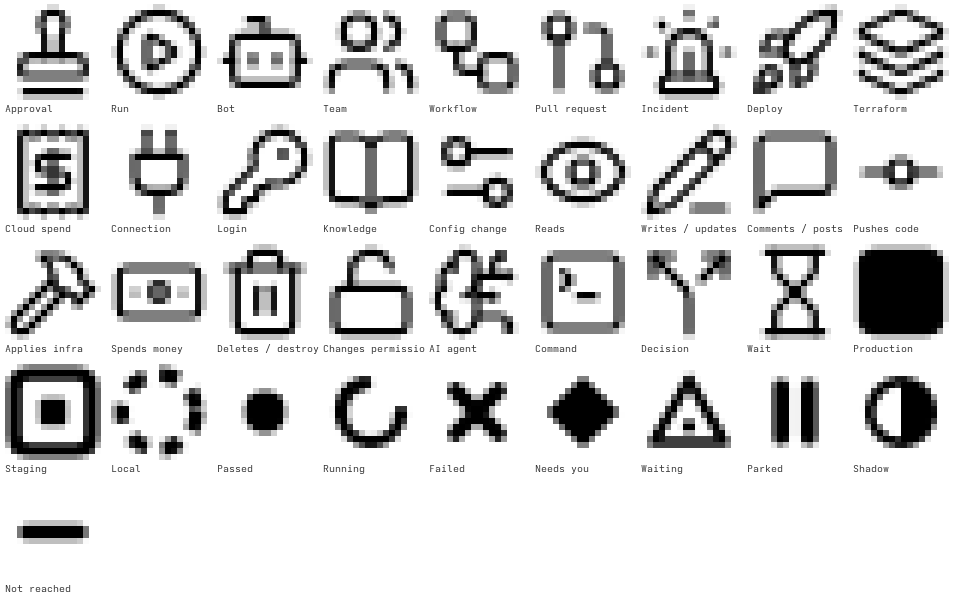
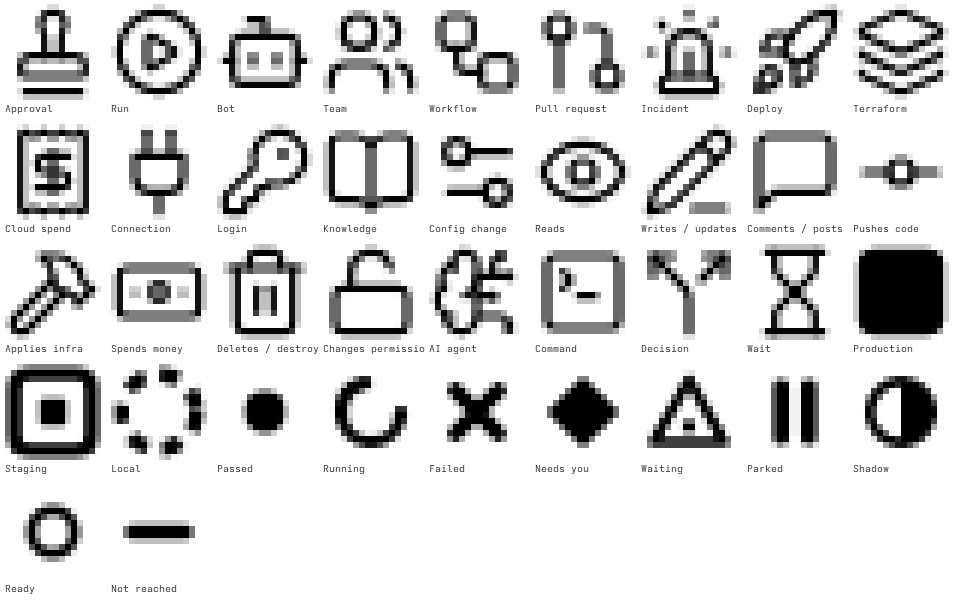
A Ready mark: a hollow slate dot
For tickets and tasks set to start but not started. The passed dot, not
yet filled, in the parked slate. A full-size ring was measured too close
to running, shadow and staged at 16px (overlap 0.65 to 0.70); the hollow
dot's closest pair is 0.58, with a different colour.

Changed region(s): [[0.0, 0.84, 0.0912, 0.99], [0.1216, 0.84, 0.2128, 0.93], [0.1216, 0.96, 0.1824, 0.99]]

diff --git a/design/brand/icons/icons.js b/design/brand/icons/icons.js
@@ -1,4 +1,4 @@
 // GENERATED by tools/icons.mjs from icons/lucide/*.svg (ISC), icons/status/*.svg and icons/services/*.svg (Simple Icons, CC0).
 export const LUCIDE = {"activity":"<path d=\"M22 12h-2.48a2 2 0 0 0-1.93 1.46l-2.35 8.36a.25.25 0 0 1-.48 0L9.24 2.18a.25.25 0 0 0-.48 0l-2.35 8.36A2 2 0 0 1 4.49 12H2\" />","badge-check":"<path d=\"M3.85 8.62a4 4 0 0 1 4.78-4.77 4 4 0 0 1 6.74 0 4 4 0 0 1 4.78 4.78 4 4 0 0 1 0 6.74 4 4 0 0 1-4.77 4.78 4 4 0 0 1-6.75 0 4 4 0 0 1-4.78-4.77 4 4 0 0 1 0-6.76Z\" /> <path d=\"m16 9-5.5 5.5L8 12\" />","banknote":"<rect width=\"20\" height=\"12\" x=\"2\" y=\"6\" rx=\"2\" /> <circle cx=\"12\" cy=\"12\" r=\"2\" /> <path d=\"M6 12h.01M18 12h.01\" />","bell":"<path d=\"M10.268 21a2 2 0 0 0 3.464 0\" /> <path d=\"M3.262 15.326A1 1 0 0 0 4 17h16a1 1 0 0 0 .74-1.673C19.41 13.956 18 12.499 18 8A6 6 0 0 0 6 8c0 4.499-1.411 5.956-2.738 7.326\" />","book-open":"<path d=\"M12 5v16\" /> <path d=\"M20.001 19A2 2 0 0022 17V5a2 2 0 00-1.999-2L16 3.002A5 5 0 0012 5a5 5 0 00-4-2H4a2 2 0 00-2 2v12a2 2 0 001.999 2H8a5 5 0 014 2 5 5 0 014-2z\" />","bot":"<path d=\"M12 8V4H8\" /> <rect width=\"16\" height=\"12\" x=\"4\" y=\"8\" rx=\"2\" /> <path d=\"M2 14h2\" /> <path d=\"M20 14h2\" /> <path d=\"M15 13v2\" /> <path d=\"M9 13v2\" />","brackets":"<path d=\"M16 3h3a1 1 0 0 1 1 1v16a1 1 0 0 1-1 1h-3\" /> <path d=\"M8 21H5a1 1 0 0 1-1-1V4a1 1 0 0 1 1-1h3\" />","brain-circuit":"<path d=\"M12 5a3 3 0 1 0-5.997.125 4 4 0 0 0-2.526 5.77 4 4 0 0 0 .556 6.588A4 4 0 1 0 12 18Z\" /> <path d=\"M9 13a4.5 4.5 0 0 0 3-4\" /> <path d=\"M6.003 5.125A3 3 0 0 0 6.401 6.5\" /> <path d=\"M3.477 10.896a4 4 0 0 1 .585-.396\" /> <path d=\"M6 18a4 4 0 0 1-1.967-.516\" /> <path d=\"M12 13h4\" /> <path d=\"M12 18h6a2 2 0 0 1 2 2v1\" /> <path d=\"M12 8h8\" /> <path d=\"M16 8V5a2 2 0 0 1 2-2\" /> <circle cx=\"16\" cy=\"13\" r=\".5\" /> <circle cx=\"18\" cy=\"3\" r=\".5\" /> <circle cx=\"20\" cy=\"21\" r=\".5\" /> <circle cx=\"20\" cy=\"8\" r=\".5\" />","calendar-clock":"<path d=\"M21 7.5V6a2 2 0 0 0-2-2H5a2 2 0 0 0-2 2v14a2 2 0 0 0 2 2h3.5\" /> <path d=\"M16 2v4\" /> <path d=\"M8 2v4\" /> <path d=\"M3 10h5\" /> <path d=\"M17.5 17.5 16 16.3V14\" /> <circle cx=\"16\" cy=\"16\" r=\"6\" />","check":"<path d=\"M20 6 9 17l-5-5\" />","chevron-right":"<path d=\"m9 18 6-6-6-6\" />","circle-arrow-up":"<circle cx=\"12\" cy=\"12\" r=\"10\" /> <path d=\"m16 12-4-4-4 4\" /> <path d=\"M12 16V8\" />","circle-play":"<path d=\"M9 9.003a1 1 0 0 1 1.517-.859l4.997 2.997a1 1 0 0 1 0 1.718l-4.997 2.997A1 1 0 0 1 9 14.996z\" /> <circle cx=\"12\" cy=\"12\" r=\"10\" />","clock":"<circle cx=\"12\" cy=\"12\" r=\"10\" /> <polyline points=\"12 6 12 12 16 14\" />","code":"<path d=\"m16 18 6-6-6-6\" /> <path d=\"m8 6-6 6 6 6\" />","command":"<path d=\"M15 6v12a3 3 0 1 0 3-3H6a3 3 0 1 0 3 3V6a3 3 0 1 0-3 3h12a3 3 0 1 0-3-3\" />","copy":"<rect width=\"14\" height=\"14\" x=\"8\" y=\"8\" rx=\"2\" ry=\"2\" /> <path d=\"M4 16c-1.1 0-2-.9-2-2V4c0-1.1.9-2 2-2h10c1.1 0 2 .9 2 2\" />","cpu":"<path d=\"M12 20v2\" /> <path d=\"M12 2v2\" /> <path d=\"M17 20v2\" /> <path d=\"M17 2v2\" /> <path d=\"M2 12h2\" /> <path d=\"M2 17h2\" /> <path d=\"M2 7h2\" /> <path d=\"M20 12h2\" /> <path d=\"M20 17h2\" /> <path d=\"M20 7h2\" /> <path d=\"M7 20v2\" /> <path d=\"M7 2v2\" /> <rect x=\"4\" y=\"4\" width=\"16\" height=\"16\" rx=\"2\" /> <rect x=\"8\" y=\"8\" width=\"8\" height=\"8\" rx=\"1\" />","ellipsis":"<circle cx=\"12\" cy=\"12\" r=\"1\" /> <circle cx=\"19\" cy=\"12\" r=\"1\" /> <circle cx=\"5\" cy=\"12\" r=\"1\" />","external-link":"<path d=\"M15 3h6v6\" /> <path d=\"M10 14 21 3\" /> <path d=\"M18 13v6a2 2 0 0 1-2 2H5a2 2 0 0 1-2-2V8a2 2 0 0 1 2-2h6\" />","eye":"<path d=\"M2.062 12.348a1 1 0 0 1 0-.696 10.75 10.75 0 0 1 19.876 0 1 1 0 0 1 0 .696 10.75 10.75 0 0 1-19.876 0\" /> <circle cx=\"12\" cy=\"12\" r=\"3\" />","filter":"<polygon points=\"22 3 2 3 10 12.46 10 19 14 21 14 12.46 22 3\" />","fingerprint":"<path d=\"M12 10a2 2 0 0 0-2 2c0 1.02-.1 2.51-.26 4\" /> <path d=\"M14 13.12c0 2.38 0 6.38-1 8.88\" /> <path d=\"M17.29 21.02c.12-.6.43-2.3.5-3.02\" /> <path d=\"M2 12a10 10 0 0 1 18-6\" /> <path d=\"M2 16h.01\" /> <path d=\"M21.8 16c.2-2 .131-5.354 0-6\" /> <path d=\"M5 19.5C5.5 18 6 15 6 12a6 6 0 0 1 .34-2\" /> <path d=\"M8.65 22c.21-.66.45-1.32.57-2\" /> <path d=\"M9 6.8a6 6 0 0 1 9 5.2v2\" />","folder":"<path d=\"M20 20a2 2 0 0 0 2-2V8a2 2 0 0 0-2-2h-7.9a2 2 0 0 1-1.69-.9L9.6 3.9A2 2 0 0 0 7.93 3H4a2 2 0 0 0-2 2v13a2 2 0 0 0 2 2Z\" />","git-commit-horizontal":"<circle cx=\"12\" cy=\"12\" r=\"3\" /> <line x1=\"3\" x2=\"9\" y1=\"12\" y2=\"12\" /> <line x1=\"15\" x2=\"21\" y1=\"12\" y2=\"12\" />","git-fork":"<circle cx=\"12\" cy=\"18\" r=\"3\" /> <circle cx=\"6\" cy=\"6\" r=\"3\" /> <circle cx=\"18\" cy=\"6\" r=\"3\" /> <path d=\"M18 9v2c0 .6-.4 1-1 1H7c-.6 0-1-.4-1-1V9\" /> <path d=\"M12 12v3\" />","git-pull-request":"<circle cx=\"18\" cy=\"18\" r=\"3\" /> <circle cx=\"6\" cy=\"6\" r=\"3\" /> <path d=\"M13 6h3a2 2 0 0 1 2 2v7\" /> <line x1=\"6\" x2=\"6\" y1=\"9\" y2=\"21\" />","globe":"<circle cx=\"12\" cy=\"12\" r=\"10\" /> <path d=\"M12 2a14.5 14.5 0 0 0 0 20 14.5 14.5 0 0 0 0-20\" /> <path d=\"M2 12h20\" />","hammer":"<path d=\"m15 12-9.373 9.373a1 1 0 0 1-3.001-3L12 9\" /> <path d=\"m18 15 4-4\" /> <path d=\"m21.5 11.5-1.914-1.914A2 2 0 0 1 19 8.172v-.344a2 2 0 0 0-.586-1.414l-1.657-1.657A6 6 0 0 0 12.516 3H9l1.243 1.243A6 6 0 0 1 12 8.485V10l2 2h1.172a2 2 0 0 1 1.414.586L18.5 14.5\" />","history":"<path d=\"M3 12a9 9 0 1 0 9-9 9.75 9.75 0 0 0-6.74 2.74L3 8\" /> <path d=\"M3 3v5h5\" /> <path d=\"M12 7v5l4 2\" />","hourglass":"<path d=\"M5 22h14\" /> <path d=\"M5 2h14\" /> <path d=\"M17 22v-4.172a2 2 0 0 0-.586-1.414L12 12l-4.414 4.414A2 2 0 0 0 7 17.828V22\" /> <path d=\"M7 2v4.172a2 2 0 0 0 .586 1.414L12 12l4.414-4.414A2 2 0 0 0 17 6.172V2\" />","info":"<circle cx=\"12\" cy=\"12\" r=\"10\" /> <path d=\"M12 16v-4\" /> <path d=\"M12 8h.01\" />","key-round":"<path d=\"M2.586 17.414A2 2 0 0 0 2 18.828V21a1 1 0 0 0 1 1h3a1 1 0 0 0 1-1v-1a1 1 0 0 1 1-1h1a1 1 0 0 0 1-1v-1a1 1 0 0 1 1-1h.172a2 2 0 0 0 1.414-.586l.814-.814a6.5 6.5 0 1 0-4-4z\" /> <circle cx=\"16.5\" cy=\"7.5\" r=\".5\" fill=\"currentColor\" />","layers":"<path d=\"M12.83 2.18a2 2 0 0 0-1.66 0L2.6 6.08a1 1 0 0 0 0 1.83l8.58 3.91a2 2 0 0 0 1.66 0l8.58-3.9a1 1 0 0 0 0-1.83z\" /> <path d=\"M2 12a1 1 0 0 0 .58.91l8.6 3.91a2 2 0 0 0 1.65 0l8.58-3.9A1 1 0 0 0 22 12\" /> <path d=\"M2 17a1 1 0 0 0 .58.91l8.6 3.91a2 2 0 0 0 1.65 0l8.58-3.9A1 1 0 0 0 22 17\" />","layout-grid":"<rect width=\"7\" height=\"7\" x=\"3\" y=\"3\" rx=\"1\" /> <rect width=\"7\" height=\"7\" x=\"14\" y=\"3\" rx=\"1\" /> <rect width=\"7\" height=\"7\" x=\"14\" y=\"14\" rx=\"1\" /> <rect width=\"7\" height=\"7\" x=\"3\" y=\"14\" rx=\"1\" />","lock-open":"<rect width=\"18\" height=\"11\" x=\"3\" y=\"11\" rx=\"2\" ry=\"2\" /> <path d=\"M7 11V7a5 5 0 0 1 9.9-1\" />","lock":"<rect width=\"18\" height=\"11\" x=\"3\" y=\"11\" rx=\"2\" ry=\"2\" /> <path d=\"M7 11V7a5 5 0 0 1 10 0v4\" />","log-out":"<path d=\"m16 17 5-5-5-5\" /> <path d=\"M21 12H9\" /> <path d=\"M9 21H5a2 2 0 0 1-2-2V5a2 2 0 0 1 2-2h4\" />","message-square":"<path d=\"M21 15a2 2 0 0 1-2 2H7l-4 4V5a2 2 0 0 1 2-2h14a2 2 0 0 1 2 2z\" />","package":"<path d=\"M11 21.73a2 2 0 0 0 2 0l7-4A2 2 0 0 0 21 16V8a2 2 0 0 0-1-1.73l-7-4a2 2 0 0 0-2 0l-7 4A2 2 0 0 0 3 8v8a2 2 0 0 0 1 1.73z\" /> <path d=\"M12 22V12\" /> <path d=\"m3.3 7 7.703 4.734a2 2 0 0 0 1.994 0L20.7 7\" /> <path d=\"m7.5 4.27 9 5.15\" />","pause":"<rect x=\"14\" y=\"4\" width=\"4\" height=\"16\" rx=\"1\" /> <rect x=\"6\" y=\"4\" width=\"4\" height=\"16\" rx=\"1\" />","pencil-line":"<path d=\"M13 21h8\" /> <path d=\"m15 5 4 4\" /> <path d=\"M21.174 6.812a1 1 0 0 0-3.986-3.987L3.842 16.174a2 2 0 0 0-.5.83l-1.321 4.352a.5.5 0 0 0 .623.622l4.353-1.32a2 2 0 0 0 .83-.497z\" />","pin":"<path d=\"M12 17v5\" /> <path d=\"M9 10.76a2 2 0 0 1-1.11 1.79l-1.78.9A2 2 0 0 0 5 15.24V16a1 1 0 0 0 1 1h12a1 1 0 0 0 1-1v-.76a2 2 0 0 0-1.11-1.79l-1.78-.9A2 2 0 0 1 15 10.76V7a1 1 0 0 1 1-1 2 2 0 0 0 0-4H8a2 2 0 0 0 0 4 1 1 0 0 1 1 1z\" />","play":"<polygon points=\"6 3 20 12 6 21 6 3\" />","plug":"<path d=\"M12 22v-5\" /> <path d=\"M9 8V2\" /> <path d=\"M15 8V2\" /> <path d=\"M18 8v5a4 4 0 0 1-4 4h-4a4 4 0 0 1-4-4V8Z\" />","plus":"<path d=\"M5 12h14\" /> <path d=\"M12 5v14\" />","receipt":"<path d=\"M12 17V7\" /> <path d=\"M16 8h-6a2 2 0 0 0 0 4h4a2 2 0 0 1 0 4H8\" /> <path d=\"M4 3a1 1 0 0 1 1-1 1.3 1.3 0 0 1 .7.2l.933.6a1.3 1.3 0 0 0 1.4 0l.934-.6a1.3 1.3 0 0 1 1.4 0l.933.6a1.3 1.3 0 0 0 1.4 0l.933-.6a1.3 1.3 0 0 1 1.4 0l.934.6a1.3 1.3 0 0 0 1.4 0l.933-.6A1.3 1.3 0 0 1 19 2a1 1 0 0 1 1 1v18a1 1 0 0 1-1 1 1.3 1.3 0 0 1-.7-.2l-.933-.6a1.3 1.3 0 0 0-1.4 0l-.934.6a1.3 1.3 0 0 1-1.4 0l-.933-.6a1.3 1.3 0 0 0-1.4 0l-.933.6a1.3 1.3 0 0 1-1.4 0l-.934-.6a1.3 1.3 0 0 0-1.4 0l-.933.6a1.3 1.3 0 0 1-.7.2 1 1 0 0 1-1-1z\" />","refresh-cw":"<path d=\"M3 12a9 9 0 0 1 9-9 9.75 9.75 0 0 1 6.74 2.74L21 8\" /> <path d=\"M21 3v5h-5\" /> <path d=\"M21 12a9 9 0 0 1-9 9 9.75 9.75 0 0 1-6.74-2.74L3 16\" /> <path d=\"M8 16H3v5\" />","rocket":"<path d=\"M12 15v5s3.03-.55 4-2c1.08-1.62 0-5 0-5\" /> <path d=\"M4.5 16.5c-1.5 1.26-2 5-2 5s3.74-.5 5-2c.71-.84.7-2.13-.09-2.91a2.18 2.18 0 0 0-2.91-.09\" /> <path d=\"M9 12a22 22 0 0 1 2-3.95A12.88 12.88 0 0 1 22 2c0 2.72-.78 7.5-6 11a22.4 22.4 0 0 1-4 2z\" /> <path d=\"M9 12H4s.55-3.03 2-4c1.62-1.08 5 .05 5 .05\" />","scroll-text":"<path d=\"M15 12h-5\" /> <path d=\"M15 8h-5\" /> <path d=\"M19 17V5a2 2 0 0 0-2-2H4\" /> <path d=\"M8 21h12a2 2 0 0 0 2-2v-1a1 1 0 0 0-1-1H11a1 1 0 0 0-1 1v1a2 2 0 1 1-4 0V5a2 2 0 1 0-4 0v2a1 1 0 0 0 1 1h3\" />","search":"<circle cx=\"11\" cy=\"11\" r=\"8\" /> <path d=\"m21 21-4.3-4.3\" />","server":"<rect width=\"20\" height=\"8\" x=\"2\" y=\"2\" rx=\"2\" ry=\"2\" /> <rect width=\"20\" height=\"8\" x=\"2\" y=\"14\" rx=\"2\" ry=\"2\" /> <line x1=\"6\" x2=\"6.01\" y1=\"6\" y2=\"6\" /> <line x1=\"6\" x2=\"6.01\" y1=\"18\" y2=\"18\" />","settings-2":"<path d=\"M20 7h-9\" /> <path d=\"M14 17H5\" /> <circle cx=\"17\" cy=\"17\" r=\"3\" /> <circle cx=\"7\" cy=\"7\" r=\"3\" />","shield-check":"<path d=\"M20 13c0 5-3.5 7.5-7.66 8.95a1 1 0 0 1-.67-.01C7.5 20.5 4 18 4 13V6a1 1 0 0 1 1-1c2 0 4.5-1.2 6.24-2.72a1.17 1.17 0 0 1 1.52 0C14.51 3.81 17 5 19 5a1 1 0 0 1 1 1z\" /> <path d=\"m9 12 2 2 4-4\" />","siren":"<path d=\"M7 18v-6a5 5 0 1 1 10 0v6\" /> <path d=\"M5 21a1 1 0 0 0 1 1h12a1 1 0 0 0 1-1v-1a2 2 0 0 0-2-2H7a2 2 0 0 0-2 2z\" /> <path d=\"M21 12h1\" /> <path d=\"M18.5 4.5 18 5\" /> <path d=\"M2 12h1\" /> <path d=\"M12 2v1\" /> <path d=\"m4.929 4.929.707.707\" /> <path d=\"M12 12v6\" />","split":"<path d=\"M16 3h5v5\" /> <path d=\"M8 3H3v5\" /> <path d=\"M12 22v-8.3a4 4 0 0 0-1.172-2.872L3 3\" /> <path d=\"m15 9 6-6\" />","square-terminal":"<path d=\"m7 11 2-2-2-2\" /> <path d=\"M11 13h4\" /> <rect width=\"18\" height=\"18\" x=\"3\" y=\"3\" rx=\"2\" ry=\"2\" />","square":"<rect width=\"18\" height=\"18\" x=\"3\" y=\"3\" rx=\"2\" />","stamp":"<path d=\"M14 13V8.5C14 7 15 7 15 5a3 3 0 0 0-6 0c0 2 1 2 1 3.5V13\" /> <path d=\"M20 15.5a2.5 2.5 0 0 0-2.5-2.5h-11A2.5 2.5 0 0 0 4 15.5V17a1 1 0 0 0 1 1h14a1 1 0 0 0 1-1z\" /> <path d=\"M5 22h14\" />","tag":"<path d=\"M12.586 2.586A2 2 0 0 0 11.172 2H4a2 2 0 0 0-2 2v7.172a2 2 0 0 0 .586 1.414l8.704 8.704a2.426 2.426 0 0 0 3.42 0l6.58-6.58a2.426 2.426 0 0 0 0-3.42z\" /> <circle cx=\"7.5\" cy=\"7.5\" r=\".5\" fill=\"currentColor\" />","telescope":"<path d=\"m10.065 12.493-6.18 1.318a.934.934 0 0 1-1.108-.702l-.537-2.15a1.07 1.07 0 0 1 .691-1.265l13.504-4.44\" /> <path d=\"m13.56 11.747 4.332-.924\" /> <path d=\"m16 21-3.105-6.21\" /> <path d=\"M16.485 5.94a2 2 0 0 1 1.455-2.425l1.09-.272a1 1 0 0 1 1.212.727l1.515 6.06a1 1 0 0 1-.727 1.213l-1.09.272a2 2 0 0 1-2.425-1.455z\" /> <path d=\"m6.158 8.633 1.114 4.456\" /> <path d=\"m8 21 3.105-6.21\" /> <circle cx=\"12\" cy=\"13\" r=\"2\" />","terminal":"<polyline points=\"4 17 10 11 4 5\" /> <line x1=\"12\" x2=\"20\" y1=\"19\" y2=\"19\" />","trash-2":"<path d=\"M10 11v6\" /> <path d=\"M14 11v6\" /> <path d=\"M19 6v14a2 2 0 0 1-2 2H7a2 2 0 0 1-2-2V6\" /> <path d=\"M3 6h18\" /> <path d=\"M8 6V4a2 2 0 0 1 2-2h4a2 2 0 0 1 2 2v2\" />","triangle-alert":"<path d=\"m21.73 18-8-14a2 2 0 0 0-3.48 0l-8 14A2 2 0 0 0 4 21h16a2 2 0 0 0 1.73-3\" /> <path d=\"M12 9v4\" /> <path d=\"M12 17h.01\" />","undo-2":"<path d=\"M9 14 4 9l5-5\" /> <path d=\"M4 9h10.5a5.5 5.5 0 0 1 5.5 5.5a5.5 5.5 0 0 1-5.5 5.5H11\" />","users":"<path d=\"M16 21v-2a4 4 0 0 0-4-4H6a4 4 0 0 0-4 4v2\" /> <circle cx=\"9\" cy=\"7\" r=\"4\" /> <path d=\"M22 21v-2a4 4 0 0 0-3-3.87\" /> <path d=\"M16 3.13a4 4 0 0 1 0 7.75\" />","workflow":"<rect width=\"8\" height=\"8\" x=\"3\" y=\"3\" rx=\"2\" /> <path d=\"M7 11v4a2 2 0 0 0 2 2h4\" /> <rect width=\"8\" height=\"8\" x=\"13\" y=\"13\" rx=\"2\" />","x":"<path d=\"M18 6 6 18\" /> <path d=\"m6 6 12 12\" />","zap":"<path d=\"M4 14a1 1 0 0 1-.78-1.63l9.9-10.2a.5.5 0 0 1 .86.46l-1.92 6.02A1 1 0 0 0 13 10h7a1 1 0 0 1 .78 1.63l-9.9 10.2a.5.5 0 0 1-.86-.46l1.92-6.02A1 1 0 0 0 11 14z\" />"};
-export const STATUS = {"success":{"label":"Passed, done, healthy (green)","svg":"<circle cx=\"8\" cy=\"8\" r=\"3.4\" fill=\"currentColor\" stroke=\"none\"/>"},"warning":{"label":"Waiting, at risk, degraded","svg":"<path d=\"M8 2.6l5.9 10.4H2.1z\" fill=\"none\" stroke=\"currentColor\" stroke-width=\"1.7\" stroke-linejoin=\"round\"/><circle cx=\"8\" cy=\"10.4\" r=\"1.1\" fill=\"currentColor\"/>"},"danger":{"label":"Failed, refused","svg":"<path d=\"M4.4 4.4l7.2 7.2M11.6 4.4l-7.2 7.2\" fill=\"none\" stroke=\"currentColor\" stroke-width=\"2.6\" stroke-linecap=\"round\"/>"},"info":{"label":"News, updates","svg":"<circle cx=\"8\" cy=\"8\" r=\"5.6\" fill=\"none\" stroke=\"currentColor\" stroke-width=\"1.6\"/><path d=\"M8 7.3v3.9\" fill=\"none\" stroke=\"currentColor\" stroke-width=\"1.8\" stroke-linecap=\"round\"/><circle cx=\"8\" cy=\"5.1\" r=\"1\" fill=\"currentColor\" stroke=\"none\"/>"},"running":{"label":"Running (rotates)","svg":"<circle cx=\"8\" cy=\"8\" r=\"5\" fill=\"none\" stroke=\"currentColor\" stroke-width=\"2.2\" stroke-dasharray=\"22 9.5\" stroke-linecap=\"round\"/>"},"neutral":{"label":"Parked, idle (slate)","svg":"<path d=\"M5.7 3.8v8.4M10.3 3.8v8.4\" fill=\"none\" stroke=\"currentColor\" stroke-width=\"2.7\" stroke-linecap=\"round\"/>"},"skipped":{"label":"Skipped, cancelled","svg":"<path d=\"M3.6 8h8.8\" fill=\"none\" stroke=\"currentColor\" stroke-width=\"2.6\" stroke-linecap=\"round\"/>"},"shadow":{"label":"Shadow mode: observes, never acts","svg":"<circle cx=\"8\" cy=\"8\" r=\"5.2\" fill=\"none\" stroke=\"currentColor\" stroke-width=\"1.7\"/><path d=\"M8 2.8a5.2 5.2 0 0 1 0 10.4z\" fill=\"currentColor\" stroke=\"none\"/>"},"needs-you":{"label":"Needs you (accent)","svg":"<path d=\"M8 1.9l6.1 6.1L8 14.1 1.9 8z\" fill=\"currentColor\" stroke=\"none\"/>"},"staged":{"label":"Staged change, not applied","svg":"<circle cx=\"8\" cy=\"8\" r=\"5\" fill=\"none\" stroke=\"currentColor\" stroke-width=\"1.8\" stroke-dasharray=\"2.6 1.9\"/>"}};
+export const STATUS = {"success":{"label":"Passed, done, healthy (green)","svg":"<circle cx=\"8\" cy=\"8\" r=\"3.4\" fill=\"currentColor\" stroke=\"none\"/>"},"warning":{"label":"Waiting, at risk, degraded","svg":"<path d=\"M8 2.6l5.9 10.4H2.1z\" fill=\"none\" stroke=\"currentColor\" stroke-width=\"1.7\" stroke-linejoin=\"round\"/><circle cx=\"8\" cy=\"10.4\" r=\"1.1\" fill=\"currentColor\"/>"},"danger":{"label":"Failed, refused","svg":"<path d=\"M4.4 4.4l7.2 7.2M11.6 4.4l-7.2 7.2\" fill=\"none\" stroke=\"currentColor\" stroke-width=\"2.6\" stroke-linecap=\"round\"/>"},"info":{"label":"News, updates","svg":"<circle cx=\"8\" cy=\"8\" r=\"5.6\" fill=\"none\" stroke=\"currentColor\" stroke-width=\"1.6\"/><path d=\"M8 7.3v3.9\" fill=\"none\" stroke=\"currentColor\" stroke-width=\"1.8\" stroke-linecap=\"round\"/><circle cx=\"8\" cy=\"5.1\" r=\"1\" fill=\"currentColor\" stroke=\"none\"/>"},"running":{"label":"Running (rotates)","svg":"<circle cx=\"8\" cy=\"8\" r=\"5\" fill=\"none\" stroke=\"currentColor\" stroke-width=\"2.2\" stroke-dasharray=\"22 9.5\" stroke-linecap=\"round\"/>"},"neutral":{"label":"Parked, idle (slate)","svg":"<path d=\"M5.7 3.8v8.4M10.3 3.8v8.4\" fill=\"none\" stroke=\"currentColor\" stroke-width=\"2.7\" stroke-linecap=\"round\"/>"},"skipped":{"label":"Skipped, cancelled","svg":"<path d=\"M3.6 8h8.8\" fill=\"none\" stroke=\"currentColor\" stroke-width=\"2.6\" stroke-linecap=\"round\"/>"},"shadow":{"label":"Shadow mode: observes, never acts","svg":"<circle cx=\"8\" cy=\"8\" r=\"5.2\" fill=\"none\" stroke=\"currentColor\" stroke-width=\"1.7\"/><path d=\"M8 2.8a5.2 5.2 0 0 1 0 10.4z\" fill=\"currentColor\" stroke=\"none\"/>"},"needs-you":{"label":"Needs you (accent)","svg":"<path d=\"M8 1.9l6.1 6.1L8 14.1 1.9 8z\" fill=\"currentColor\" stroke=\"none\"/>"},"staged":{"label":"Staged change, not applied","svg":"<circle cx=\"8\" cy=\"8\" r=\"5\" fill=\"none\" stroke=\"currentColor\" stroke-width=\"1.8\" stroke-dasharray=\"2.6 1.9\"/>"},"ready":{"label":"Ready: set to start, not started (slate)","svg":"<circle cx=\"8\" cy=\"8\" r=\"3.6\" fill=\"none\" stroke=\"currentColor\" stroke-width=\"1.8\"/>"}};
 export const SERVICES = {"claude":{"title":"Claude","svg":"<path d=\"m4.7144 15.9555 4.7174-2.6471.079-.2307-.079-.1275h-.2307l-.7893-.0486-2.6956-.0729-2.3375-.0971-2.2646-.1214-.5707-.1215-.5343-.7042.0546-.3522.4797-.3218.686.0608 1.5179.1032 2.2767.1578 1.6514.0972 2.4468.255h.3886l.0546-.1579-.1336-.0971-.1032-.0972L6.973 9.8356l-2.55-1.6879-1.3356-.9714-.7225-.4918-.3643-.4614-.1578-1.0078.6557-.7225.8803.0607.2246.0607.8925.686 1.9064 1.4754 2.4893 1.8336.3643.3035.1457-.1032.0182-.0728-.164-.2733-1.3539-2.4467-1.445-2.4893-.6435-1.032-.17-.6194c-.0607-.255-.1032-.4674-.1032-.7285L6.287.1335 6.6997 0l.9957.1336.419.3642.6192 1.4147 1.0018 2.2282 1.5543 3.0296.4553.8985.2429.8318.091.255h.1579v-.1457l.1275-1.706.2368-2.0947.2307-2.6957.0789-.7589.3764-.9107.7468-.4918.5828.2793.4797.686-.0668.4433-.2853 1.8517-.5586 2.9021-.3643 1.9429h.2125l.2429-.2429.9835-1.3053 1.6514-2.0643.7286-.8196.85-.9046.5464-.4311h1.0321l.759 1.1293-.34 1.1657-1.0625 1.3478-.8804 1.1414-1.2628 1.7-.7893 1.36.0729.1093.1882-.0183 2.8535-.607 1.5421-.2794 1.8396-.3157.8318.3886.091.3946-.3278.8075-1.967.4857-2.3072.4614-3.4364.8136-.0425.0304.0486.0607 1.5482.1457.6618.0364h1.621l3.0175.2247.7892.522.4736.6376-.079.4857-1.2142.6193-1.6393-.3886-3.825-.9107-1.3113-.3279h-.1822v.1093l1.0929 1.0686 2.0035 1.8092 2.5075 2.3314.1275.5768-.3218.4554-.34-.0486-2.2039-1.6575-.85-.7468-1.9246-1.621h-.1275v.17l.4432.6496 2.3436 3.5214.1214 1.0807-.17.3521-.6071.2125-.6679-.1214-1.3721-1.9246L14.38 17.959l-1.1414-1.9428-.1397.079-.674 7.2552-.3156.3703-.7286.2793-.6071-.4614-.3218-.7468.3218-1.4753.3886-1.9246.3157-1.53.2853-1.9004.17-.6314-.0121-.0425-.1397.0182-1.4328 1.9672-2.1796 2.9446-1.7243 1.8456-.4128.164-.7164-.3704.0667-.6618.4008-.5889 2.386-3.0357 1.4389-1.882.929-1.0868-.0062-.1579h-.0546l-6.3385 4.1164-1.1293.1457-.4857-.4554.0608-.7467.2307-.2429 1.9064-1.3114Z\"/>"},"docker":{"title":"Docker","svg":"<path d=\"M13.983 11.078h2.119a.186.186 0 00.186-.185V9.006a.186.186 0 00-.186-.186h-2.119a.185.185 0 00-.185.185v1.888c0 .102.083.185.185.185m-2.954-5.43h2.118a.186.186 0 00.186-.186V3.574a.186.186 0 00-.186-.185h-2.118a.185.185 0 00-.185.185v1.888c0 .102.082.185.185.185m0 2.716h2.118a.187.187 0 00.186-.186V6.29a.186.186 0 00-.186-.185h-2.118a.185.185 0 00-.185.185v1.887c0 .102.082.185.185.186m-2.93 0h2.12a.186.186 0 00.184-.186V6.29a.185.185 0 00-.185-.185H8.1a.185.185 0 00-.185.185v1.887c0 .102.083.185.185.186m-2.964 0h2.119a.186.186 0 00.185-.186V6.29a.185.185 0 00-.185-.185H5.136a.186.186 0 00-.186.185v1.887c0 .102.084.185.186.186m5.893 2.715h2.118a.186.186 0 00.186-.185V9.006a.186.186 0 00-.186-.186h-2.118a.185.185 0 00-.185.185v1.888c0 .102.082.185.185.185m-2.93 0h2.12a.185.185 0 00.184-.185V9.006a.185.185 0 00-.184-.186h-2.12a.185.185 0 00-.184.185v1.888c0 .102.083.185.185.185m-2.964 0h2.119a.185.185 0 00.185-.185V9.006a.185.185 0 00-.184-.186h-2.12a.186.186 0 00-.186.186v1.887c0 .102.084.185.186.185m-2.92 0h2.12a.185.185 0 00.184-.185V9.006a.185.185 0 00-.184-.186h-2.12a.185.185 0 00-.184.185v1.888c0 .102.082.185.185.185M23.763 9.89c-.065-.051-.672-.51-1.954-.51-.338.001-.676.03-1.01.087-.248-1.7-1.653-2.53-1.716-2.566l-.344-.199-.226.327c-.284.438-.49.922-.612 1.43-.23.97-.09 1.882.403 2.661-.595.332-1.55.413-1.744.42H.751a.751.751 0 00-.75.748 11.376 11.376 0 00.692 4.062c.545 1.428 1.355 2.48 2.41 3.124 1.18.723 3.1 1.137 5.275 1.137.983.003 1.963-.086 2.93-.266a12.248 12.248 0 003.823-1.389c.98-.567 1.86-1.288 2.61-2.136 1.252-1.418 1.998-2.997 2.553-4.4h.221c1.372 0 2.215-.549 2.68-1.009.309-.293.55-.65.707-1.046l.098-.288Z\"/>"},"github":{"title":"GitHub","svg":"<path d=\"M12 .297c-6.63 0-12 5.373-12 12 0 5.303 3.438 9.8 8.205 11.385.6.113.82-.258.82-.577 0-.285-.01-1.04-.015-2.04-3.338.724-4.042-1.61-4.042-1.61C4.422 18.07 3.633 17.7 3.633 17.7c-1.087-.744.084-.729.084-.729 1.205.084 1.838 1.236 1.838 1.236 1.07 1.835 2.809 1.305 3.495.998.108-.776.417-1.305.76-1.605-2.665-.3-5.466-1.332-5.466-5.93 0-1.31.465-2.38 1.235-3.22-.135-.303-.54-1.523.105-3.176 0 0 1.005-.322 3.3 1.23.96-.267 1.98-.399 3-.405 1.02.006 2.04.138 3 .405 2.28-1.552 3.285-1.23 3.285-1.23.645 1.653.24 2.873.12 3.176.765.84 1.23 1.91 1.23 3.22 0 4.61-2.805 5.625-5.475 5.92.42.36.81 1.096.81 2.22 0 1.606-.015 2.896-.015 3.286 0 .315.21.69.825.57C20.565 22.092 24 17.592 24 12.297c0-6.627-5.373-12-12-12\"/>"},"go":{"title":"Go","svg":"<path d=\"M1.811 10.231c-.047 0-.058-.023-.035-.059l.246-.315c.023-.035.081-.058.128-.058h4.172c.046 0 .058.035.035.07l-.199.303c-.023.036-.082.07-.117.07zM.047 11.306c-.047 0-.059-.023-.035-.058l.245-.316c.023-.035.082-.058.129-.058h5.328c.047 0 .07.035.058.07l-.093.28c-.012.047-.058.07-.105.07zm2.828 1.075c-.047 0-.059-.035-.035-.07l.163-.292c.023-.035.07-.07.117-.07h2.337c.047 0 .07.035.07.082l-.023.28c0 .047-.047.082-.082.082zm12.129-2.36c-.736.187-1.239.327-1.963.514-.176.046-.187.058-.34-.117-.174-.199-.303-.327-.548-.444-.737-.362-1.45-.257-2.115.175-.795.514-1.204 1.274-1.192 2.22.011.935.654 1.706 1.577 1.835.795.105 1.46-.175 1.987-.77.105-.13.198-.27.315-.434H10.47c-.245 0-.304-.152-.222-.35.152-.362.432-.97.596-1.274a.315.315 0 01.292-.187h4.253c-.023.316-.023.631-.07.947a4.983 4.983 0 01-.958 2.29c-.841 1.11-1.94 1.8-3.33 1.986-1.145.152-2.209-.07-3.143-.77-.865-.655-1.356-1.52-1.484-2.595-.152-1.274.222-2.419.993-3.424.83-1.086 1.928-1.776 3.272-2.02 1.098-.2 2.15-.07 3.096.571.62.41 1.063.97 1.356 1.648.07.105.023.164-.117.2m3.868 6.461c-1.064-.024-2.034-.328-2.852-1.029a3.665 3.665 0 01-1.262-2.255c-.21-1.32.152-2.489.947-3.529.853-1.122 1.881-1.706 3.272-1.95 1.192-.21 2.314-.095 3.33.595.923.63 1.496 1.484 1.648 2.605.198 1.578-.257 2.863-1.344 3.962-.771.783-1.718 1.273-2.805 1.495-.315.06-.63.07-.934.106zm2.78-4.72c-.011-.153-.011-.27-.034-.387-.21-1.157-1.274-1.81-2.384-1.554-1.087.245-1.788.935-2.045 2.033-.21.912.234 1.835 1.075 2.21.643.28 1.285.244 1.905-.07.923-.48 1.425-1.228 1.484-2.233z\"/>"},"googlecloud":{"title":"Google Cloud","svg":"<path d=\"M12.19 2.38a9.344 9.344 0 0 0-9.234 6.893c.053-.02-.055.013 0 0-3.875 2.551-3.922 8.11-.247 10.941l.006-.007-.007.03a6.717 6.717 0 0 0 4.077 1.356h5.173l.03.03h5.192c6.687.053 9.376-8.605 3.835-12.35a9.365 9.365 0 0 0-2.821-4.552l-.043.043.006-.05A9.344 9.344 0 0 0 12.19 2.38zm-.358 4.146c1.244-.04 2.518.368 3.486 1.15a5.186 5.186 0 0 1 1.862 4.078v.518c3.53-.07 3.53 5.262 0 5.193h-5.193l-.008.009v-.04H6.785a2.59 2.59 0 0 1-1.067-.23h.001a2.597 2.597 0 1 1 3.437-3.437l3.013-3.012A6.747 6.747 0 0 0 8.11 8.24c.018-.01.04-.026.054-.023a5.186 5.186 0 0 1 3.67-1.69z\"/>"},"kubernetes":{"title":"Kubernetes","svg":"<path d=\"M10.204 14.35l.007.01-.999 2.413a5.171 5.171 0 0 1-2.075-2.597l2.578-.437.004.005a.44.44 0 0 1 .484.606zm-.833-2.129a.44.44 0 0 0 .173-.756l.002-.011L7.585 9.7a5.143 5.143 0 0 0-.73 3.255l2.514-.725.002-.009zm1.145-1.98a.44.44 0 0 0 .699-.337l.01-.005.15-2.62a5.144 5.144 0 0 0-3.01 1.442l2.147 1.523.004-.002zm.76 2.75l.723.349.722-.347.18-.78-.5-.623h-.804l-.5.623.179.779zm1.5-3.095a.44.44 0 0 0 .7.336l.008.003 2.134-1.513a5.188 5.188 0 0 0-2.992-1.442l.148 2.615.002.001zm10.876 5.97l-5.773 7.181a1.6 1.6 0 0 1-1.248.594l-9.261.003a1.6 1.6 0 0 1-1.247-.596l-5.776-7.18a1.583 1.583 0 0 1-.307-1.34L2.1 5.573c.108-.47.425-.864.863-1.073L11.305.513a1.606 1.606 0 0 1 1.385 0l8.345 3.985c.438.209.755.604.863 1.073l2.062 8.955c.108.47-.005.963-.308 1.34zm-3.289-2.057c-.042-.01-.103-.026-.145-.034-.174-.033-.315-.025-.479-.038-.35-.037-.638-.067-.895-.148-.105-.04-.18-.165-.216-.216l-.201-.059a6.45 6.45 0 0 0-.105-2.332 6.465 6.465 0 0 0-.936-2.163c.052-.047.15-.133.177-.159.008-.09.001-.183.094-.282.197-.185.444-.338.743-.522.142-.084.273-.137.415-.242.032-.024.076-.062.11-.089.24-.191.295-.52.123-.736-.172-.216-.506-.236-.745-.045-.034.027-.08.062-.111.088-.134.116-.217.23-.33.35-.246.25-.45.458-.673.609-.097.056-.239.037-.303.033l-.19.135a6.545 6.545 0 0 0-4.146-2.003l-.012-.223c-.065-.062-.143-.115-.163-.25-.022-.268.015-.557.057-.905.023-.163.061-.298.068-.475.001-.04-.001-.099-.001-.142 0-.306-.224-.555-.5-.555-.275 0-.499.249-.499.555l.001.014c0 .041-.002.092 0 .128.006.177.044.312.067.475.042.348.078.637.056.906a.545.545 0 0 1-.162.258l-.012.211a6.424 6.424 0 0 0-4.166 2.003 8.373 8.373 0 0 1-.18-.128c-.09.012-.18.04-.297-.029-.223-.15-.427-.358-.673-.608-.113-.12-.195-.234-.329-.349-.03-.026-.077-.062-.111-.088a.594.594 0 0 0-.348-.132.481.481 0 0 0-.398.176c-.172.216-.117.546.123.737l.007.005.104.083c.142.105.272.159.414.242.299.185.546.338.743.522.076.082.09.226.1.288l.16.143a6.462 6.462 0 0 0-1.02 4.506l-.208.06c-.055.072-.133.184-.215.217-.257.081-.546.11-.895.147-.164.014-.305.006-.48.039-.037.007-.09.02-.133.03l-.004.002-.007.002c-.295.071-.484.342-.423.608.061.267.349.429.645.365l.007-.001.01-.003.129-.029c.17-.046.294-.113.448-.172.33-.118.604-.217.87-.256.112-.009.23.069.288.101l.217-.037a6.5 6.5 0 0 0 2.88 3.596l-.09.218c.033.084.069.199.044.282-.097.252-.263.517-.452.813-.091.136-.185.242-.268.399-.02.037-.045.095-.064.134-.128.275-.034.591.213.71.248.12.556-.007.69-.282v-.002c.02-.039.046-.09.062-.127.07-.162.094-.301.144-.458.132-.332.205-.68.387-.897.05-.06.13-.082.215-.105l.113-.205a6.453 6.453 0 0 0 4.609.012l.106.192c.086.028.18.042.256.155.136.232.229.507.342.84.05.156.074.295.145.457.016.037.043.09.062.129.133.276.442.402.69.282.247-.118.341-.435.213-.71-.02-.039-.045-.096-.065-.134-.083-.156-.177-.261-.268-.398-.19-.296-.346-.541-.443-.793-.04-.13.007-.21.038-.294-.018-.022-.059-.144-.083-.202a6.499 6.499 0 0 0 2.88-3.622c.064.01.176.03.213.038.075-.05.144-.114.28-.104.266.039.54.138.87.256.154.06.277.128.448.173.036.01.088.019.13.028l.009.003.007.001c.297.064.584-.098.645-.365.06-.266-.128-.537-.423-.608zM16.4 9.701l-1.95 1.746v.005a.44.44 0 0 0 .173.757l.003.01 2.526.728a5.199 5.199 0 0 0-.108-1.674A5.208 5.208 0 0 0 16.4 9.7zm-4.013 5.325a.437.437 0 0 0-.404-.232.44.44 0 0 0-.372.233h-.002l-1.268 2.292a5.164 5.164 0 0 0 3.326.003l-1.27-2.296h-.01zm1.888-1.293a.44.44 0 0 0-.27.036.44.44 0 0 0-.214.572l-.003.004 1.01 2.438a5.15 5.15 0 0 0 2.081-2.615l-2.6-.44-.004.005z\"/>"},"pagerduty":{"title":"PagerDuty","svg":"<path d=\"M16.965 1.18C15.085.164 13.769 0 10.683 0H3.73v14.55h6.926c2.743 0 4.8-.164 6.61-1.37 1.975-1.303 3.004-3.484 3.004-6.007 0-2.716-1.262-4.896-3.305-5.994zm-5.5 10.326h-4.21V3.113l3.977-.027c3.62-.028 5.43 1.234 5.43 4.128 0 3.113-2.248 4.292-5.197 4.292zM3.73 17.61h3.525V24H3.73Z\"/>"},"python":{"title":"Python","svg":"<path d=\"M14.25.18l.9.2.73.26.59.3.45.32.34.34.25.34.16.33.1.3.04.26.02.2-.01.13V8.5l-.05.63-.13.55-.21.46-.26.38-.3.31-.33.25-.35.19-.35.14-.33.1-.3.07-.26.04-.21.02H8.77l-.69.05-.59.14-.5.22-.41.27-.33.32-.27.35-.2.36-.15.37-.1.35-.07.32-.04.27-.02.21v3.06H3.17l-.21-.03-.28-.07-.32-.12-.35-.18-.36-.26-.36-.36-.35-.46-.32-.59-.28-.73-.21-.88-.14-1.05-.05-1.23.06-1.22.16-1.04.24-.87.32-.71.36-.57.4-.44.42-.33.42-.24.4-.16.36-.1.32-.05.24-.01h.16l.06.01h8.16v-.83H6.18l-.01-2.75-.02-.37.05-.34.11-.31.17-.28.25-.26.31-.23.38-.2.44-.18.51-.15.58-.12.64-.1.71-.06.77-.04.84-.02 1.27.05zm-6.3 1.98l-.23.33-.08.41.08.41.23.34.33.22.41.09.41-.09.33-.22.23-.34.08-.41-.08-.41-.23-.33-.33-.22-.41-.09-.41.09zm13.09 3.95l.28.06.32.12.35.18.36.27.36.35.35.47.32.59.28.73.21.88.14 1.04.05 1.23-.06 1.23-.16 1.04-.24.86-.32.71-.36.57-.4.45-.42.33-.42.24-.4.16-.36.09-.32.05-.24.02-.16-.01h-8.22v.82h5.84l.01 2.76.02.36-.05.34-.11.31-.17.29-.25.25-.31.24-.38.2-.44.17-.51.15-.58.13-.64.09-.71.07-.77.04-.84.01-1.27-.04-1.07-.14-.9-.2-.73-.25-.59-.3-.45-.33-.34-.34-.25-.34-.16-.33-.1-.3-.04-.25-.02-.2.01-.13v-5.34l.05-.64.13-.54.21-.46.26-.38.3-.32.33-.24.35-.2.35-.14.33-.1.3-.06.26-.04.21-.02.13-.01h5.84l.69-.05.59-.14.5-.21.41-.28.33-.32.27-.35.2-.36.15-.36.1-.35.07-.32.04-.28.02-.21V6.07h2.09l.14.01zm-6.47 14.25l-.23.33-.08.41.08.41.23.33.33.23.41.08.41-.08.33-.23.23-.33.08-.41-.08-.41-.23-.33-.33-.23-.41-.08-.41.08z\"/>"},"terraform":{"title":"Terraform","svg":"<path d=\"M1.44 0v7.575l6.561 3.79V3.787zm21.12 4.227l-6.561 3.791v7.574l6.56-3.787zM8.72 4.23v7.575l6.561 3.787V8.018zm0 8.405v7.575L15.28 24v-7.578z\"/>"},"typescript":{"title":"TypeScript","svg":"<path d=\"M1.125 0C.502 0 0 .502 0 1.125v21.75C0 23.498.502 24 1.125 24h21.75c.623 0 1.125-.502 1.125-1.125V1.125C24 .502 23.498 0 22.875 0zm17.363 9.75c.612 0 1.154.037 1.627.111a6.38 6.38 0 0 1 1.306.34v2.458a3.95 3.95 0 0 0-.643-.361 5.093 5.093 0 0 0-.717-.26 5.453 5.453 0 0 0-1.426-.2c-.3 0-.573.028-.819.086a2.1 2.1 0 0 0-.623.242c-.17.104-.3.229-.393.374a.888.888 0 0 0-.14.49c0 .196.053.373.156.529.104.156.252.304.443.444s.423.276.696.41c.273.135.582.274.926.416.47.197.892.407 1.266.628.374.222.695.473.963.753.268.279.472.598.614.957.142.359.214.776.214 1.253 0 .657-.125 1.21-.373 1.656a3.033 3.033 0 0 1-1.012 1.085 4.38 4.38 0 0 1-1.487.596c-.566.12-1.163.18-1.79.18a9.916 9.916 0 0 1-1.84-.164 5.544 5.544 0 0 1-1.512-.493v-2.63a5.033 5.033 0 0 0 3.237 1.2c.333 0 .624-.03.872-.09.249-.06.456-.144.623-.25.166-.108.29-.234.373-.38a1.023 1.023 0 0 0-.074-1.089 2.12 2.12 0 0 0-.537-.5 5.597 5.597 0 0 0-.807-.444 27.72 27.72 0 0 0-1.007-.436c-.918-.383-1.602-.852-2.053-1.405-.45-.553-.676-1.222-.676-2.005 0-.614.123-1.141.369-1.582.246-.441.58-.804 1.004-1.089a4.494 4.494 0 0 1 1.47-.629 7.536 7.536 0 0 1 1.77-.201zm-15.113.188h9.563v2.166H9.506v9.646H6.789v-9.646H3.375z\"/>"}};

diff --git a/design/brand/status/marks.js b/design/brand/status/marks.js
@@ -16,12 +16,14 @@ export const STATES = {
   waiting: { word: 'Waiting',   glyph: 'warning',   mark: '--color-status-warning-solid', fg: '--color-status-warning-fg',    shape: 'outlined triangle', attn: true },
   parked:  { word: 'Parked',    glyph: 'neutral',   mark: '--color-status-neutral-solid', fg: null,                           shape: 'pause bars' },
   shadow:  { word: 'Shadow',    glyph: 'shadow',    mark: '--color-status-info-solid',    fg: '--color-status-info-fg',       shape: 'half disc' },
+  // Set to start, not started yet (a ticket or task in Ready): the passed dot, not yet filled, in the parked slate.
+  ready:   { word: 'Ready',     glyph: 'ready',     mark: '--color-status-neutral-solid', fg: null,                           shape: 'hollow dot' },
   // A step after a failure, or a cancelled run: the parked slate, but a single dash.
   skipped: { word: 'Not reached', glyph: 'skipped', mark: '--color-status-neutral-solid', fg: null,                           shape: 'dash' },
 };
 // Not a status: an edit that hasn't been applied. Running blue, but a dashed ring, never an arc.
 // Glyph keys used by older helpers → their state.
-export const GLYPH_STATE = { success: 'passed', danger: 'failed', warning: 'waiting', running: 'running', neutral: 'parked', skipped: 'skipped', shadow: 'shadow', 'needs-you': 'needs', staged: 'staged' };
+export const GLYPH_STATE = { success: 'passed', danger: 'failed', warning: 'waiting', running: 'running', neutral: 'parked', skipped: 'skipped', ready: 'ready', shadow: 'shadow', 'needs-you': 'needs', staged: 'staged' };
 export const CHANGE = { staged: { word: 'Not applied', glyph: 'staged', mark: '--color-status-running-solid', fg: '--color-status-running-fg', shape: 'dashed ring' } };
 const ALL = { ...STATES, ...CHANGE };
 

diff --git a/design/brand/BRAND.md b/design/brand/BRAND.md
@@ -16,6 +16,7 @@ This is the single source of truth for how conductor looks, reads and behaves on
 ## Changelog
 
 - **2026-10-18. Bot identity.** Twelve bot faces (`bot-identity/faces/`, ids for `avatar.preset`), seven identity colours that keep clear of every status hue (`--color-bot-*`), where the colour may and may not go, the icon-and-colour option, the initials fallback and voice presets. A new book chapter shows the set in both themes, at both sizes, and the full face × colour grid (every face in every colour, at 48px and 24px).
+- **2026-10-18. A Ready mark.** For tickets and tasks that are set to start but not started: a hollow slate dot (`ready`), the passed dot not yet filled. A full-size ring was tried and measured too close to running, shadow and staged at 16px.
 - **2026-10-18. Fact types and graded risk.** Every fact in the facts line has a type and its own icon (`status/facts.js`): update available in the accent and bold, the most noticeable; held in full ink with a pin; stays current, within a range and the version quiet, each with its own icon; built in (the conductor mark’s 16px cut), official (a check badge) and custom (a fork, in a new olive-ochre `fact.custom`). Service glyphs (Simple Icons, CC0) replace the generic plug. Risk is graded by what it can do: reads quiet; changes in full ink; **infrastructure and production in amber** with their own icons (“Changes infrastructure” now matches production); money, destroying and widening access in red on a solid tile. The approval flags follow the grades, with a new “Changes infrastructure” flag for applies. This settles the open question of a visual marker for risk.
 - **2026-10-18. Plugins and connections.** The dashboard area is **Plugins** (tabs: Connections · Agent runtimes · Code languages · Machines), in System where Connections was. A configured instance of a service is a **connection**; “connector” is retired from copy. This reverses the earlier advice to avoid the word “plugin” in primary copy.
 - **2026-10-18. One count badge.** Something new or waiting for you (the Needs you nav count, Chat unread in the rail and phone tab bar, the Chat conversation list, an Approvals tab with something pending) is the one orange badge (`--count-badge-*`: accent background, on-accent text). A total is plain text in the count style (“Tickets 4”). No screen draws its own pill. This replaces “a count is an ember numeral”. The mocks follow it.
@@ -183,11 +184,12 @@ Every status mark, in a table, card, the run strip, a legend, the overview, the 
 | Needs you | diamond | ember (`accent.default`) | ember text (`text.accent`) |
 | Waiting / at risk | outlined triangle | amber | amber text |
 | Parked | pause bars | slate `#506279` · `#677b94` | ink |
+| Ready | hollow dot (r 3.6, the passed dot not yet filled) | slate (as parked) | ink |
 | Not reached | dash | slate (as parked) | ink |
 | Shadow | half disc | violet | violet text |
 | Staged (not a status) | dashed ring | blue | blue text |
 
-- **Passed and parked never share a hue or a shape:** a green dot vs slate pause bars.
+- **Passed and parked never share a hue or a shape:** a green dot vs slate pause bars. **Ready** (set to start, not started: a ticket or task) is the passed dot not yet filled, in slate: a hollow dot, never a full-size ring, which at 16px is too close to running, shadow and staged.
 - **Charts:** runs per hour stack from the ground: passed as a soft green body (`status.success.chart`, the green mixed about 40% with the surface) under a 2px cap in the full success green (`run-strip.cap`); waiting or parked in a warm neutral (`run-strip.waiting`); running in `status.running.solid`; failed on top in `status.danger.solid` with the failed mark above it. The cap is the bar’s edge and meets 3:1, so the body may sit under it. 2px gaps between layers; a failure is never thinner than 4px. A screen of passes reads calm and the rare red pops first. The caption is the key: each layer’s swatch (the passed swatch with its cap) and count.
 - **The mark always carries its colour, and so does its word.** Passed is regular weight; failed, needs you and waiting are bold; parked and not reached stay ink.
 - **No tinted rows, pills or capsules.** In a list, rows are grouped: **Needs attention** first (failed or needs you), then **Running now**, then **Finished**, which stays listed and is paged. Only a row that needs someone gets a 3px leading edge in its mark’s colour, its reason as a plain sentence and one action.
